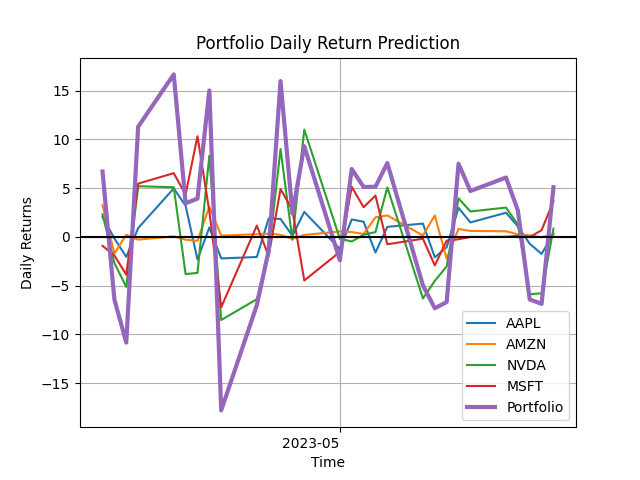
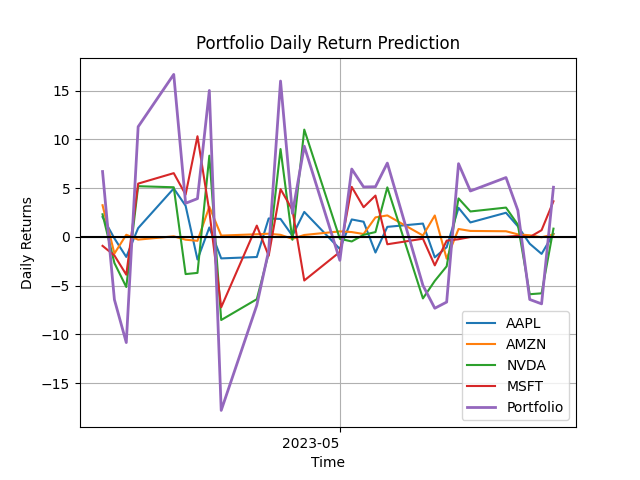
linewidth change

diff --git a/analysis.py b/analysis.py
@@ -260,11 +260,14 @@ def max_sharpe_portfolio(combined_returns, rfr):
 
 
 
-# # tkr = 'NVDA'
-# # tkr_list = ['AAPL', 'AMZN', 'NVDA', 'MSFT']
-# # days = 30
+# tkr = 'NVDA'
+# tkr_list = ['AAPL', 'AMZN', 'NVDA', 'MSFT']
+# days = 30
 
-# # out, out_df = get_portfolio_returns(tkr_list, days)
+# out, out_df = get_portfolio_returns(tkr_list, days)
+# print(out_df)
+# plot_daily_portfolio_returns(tkr_list, out_df)
+
 # # print(out)
 # # out2, var = min_var_portfolio(out)
 # # out3, sharpe = max_sharpe_portfolio(out, 0.02)

diff --git a/residual_model.py b/residual_model.py
@@ -252,9 +252,9 @@ def get_prediction(ticker, days):
     return adjusted_prediction
 
 
-tkr = 'NVDA'
-days = 30
+# tkr = 'NVDA'
+# days = 30
 
-out = get_prediction(tkr, days)
-print(out)
-plot_prediction(tkr, out)
+# out = get_prediction(tkr, days)
+# print(out)
+# plot_prediction(tkr, out)
